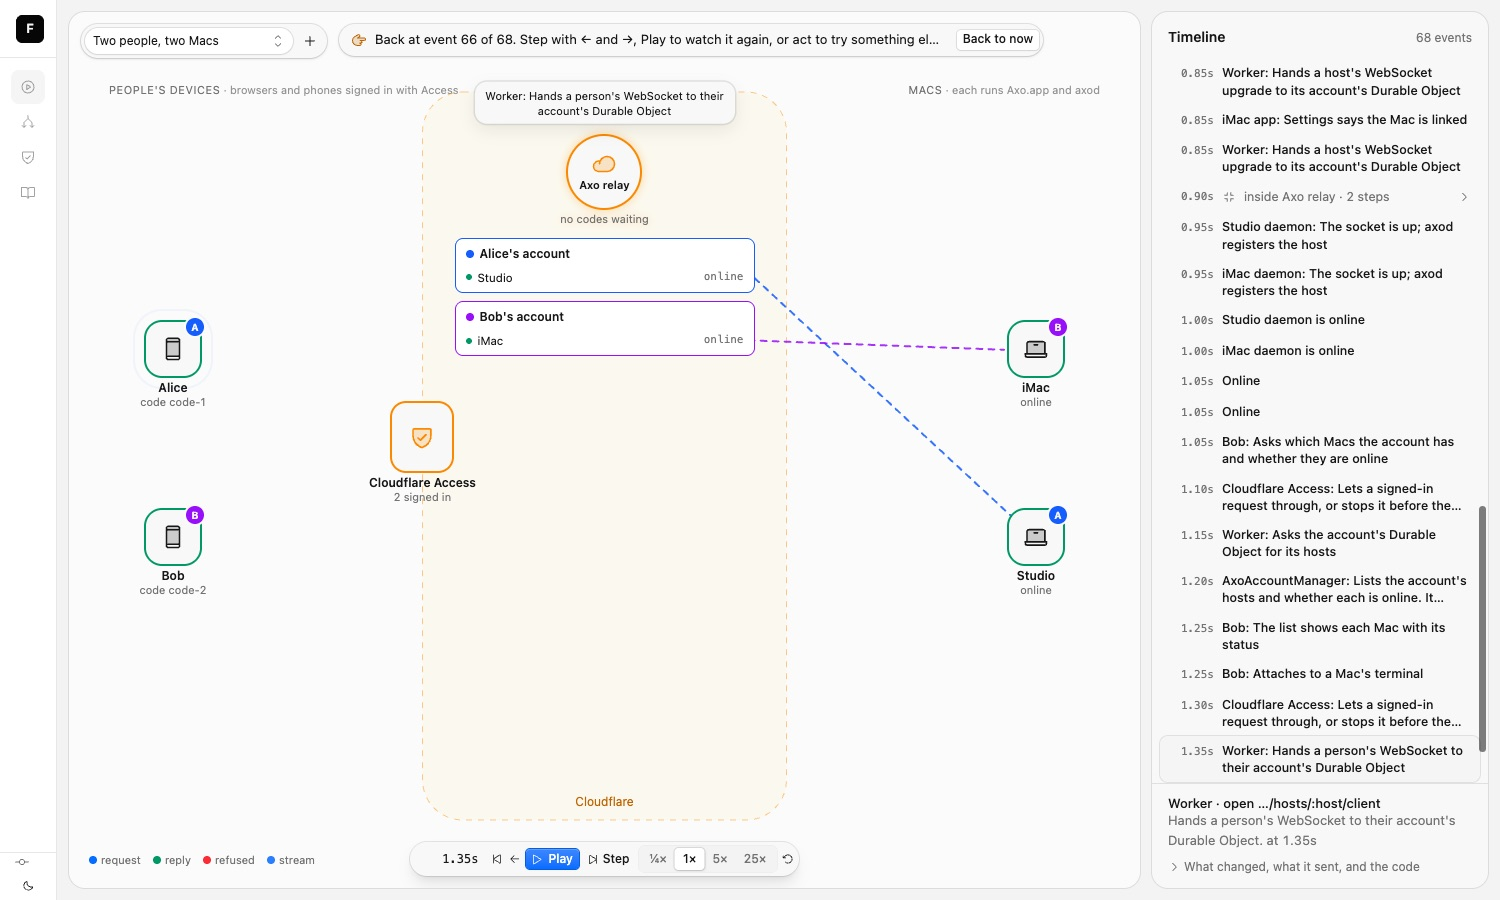
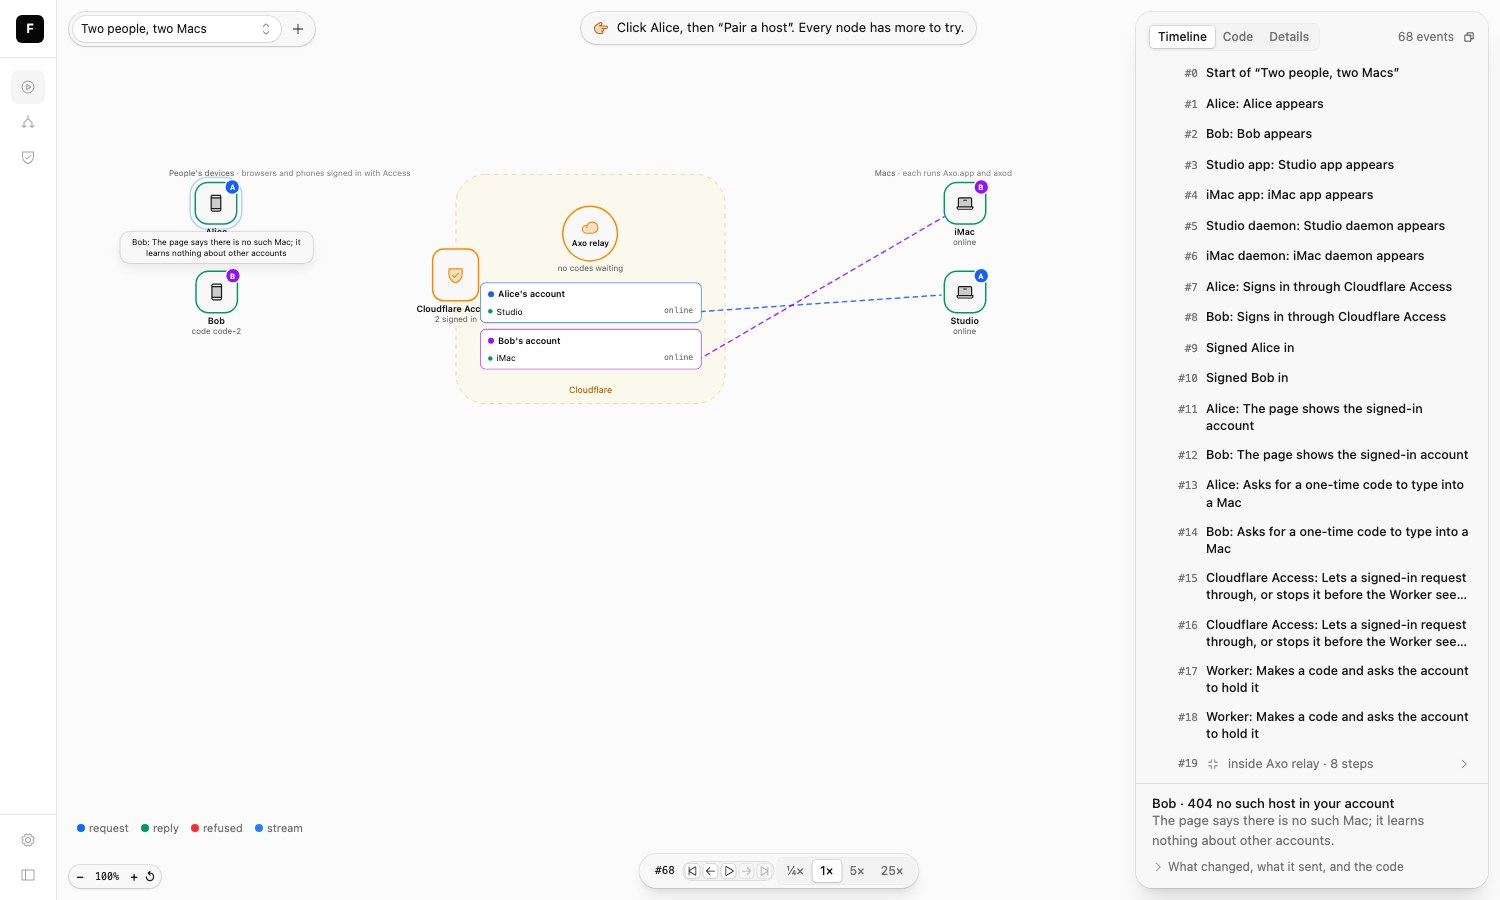
fix(view): fit the diagram beside the floating controls, not under them; the site shows the Code view and shareable sessions

diff --git a/src/view/Playground.tsx b/src/view/Playground.tsx
@@ -12,7 +12,7 @@ import { choices, dropsFor, labelled, pendingInOrder, type Drop, type Event, typ
 import { groupsOf, iconFor, TONES, toneColor } from "../play/index.ts";
 import { labelOf, messageName, ordinal } from "./format";
 import { ActionBar, actionsOf, InputsDialog, STACK_FROM, startAction, type Asking, type Choosing } from "./playground/Actions";
-import { bubbleText, fitOf, routineDelivery, sizesOf, Stage, TokenChip, useLayout, useView, type Bubble, type Dragging, type Flight, type Picking } from "./playground/Stage";
+import { bubbleText, fitOf, type Free, routineDelivery, sizesOf, Stage, TokenChip, useLayout, useView, type Bubble, type Dragging, type Flight, type Picking } from "./playground/Stage";
 import { nodeLook, sceneOf, type Scene } from "./scene";
 import { apply, current, nextHint, nextLabel, rollback, scenarioDump, type Op, type Session } from "./session";
 import { Timeline, type TimelineTab } from "./Timeline";
@@ -24,6 +24,22 @@ import { DEFAULT_ZOOM, FIT_SCALE_UNITS, POSITION_UNITS_PER_PIXEL, ZOOM_FACTOR_UN
 export interface Choice {
   items: { value: string; label: string }[];
   onPick: (value: string) => void;
+}
+
+/** Room the floating controls take, in pixels: the top bar, the playback bar, the side pane and its margins. */
+const TOP_BAR = 60;
+const PLAY_BAR = 64;
+const PANE_REM = 22;
+const PANE_MARGIN = 24;
+/** Below this much width left beside the pane, the pane is treated as covering the canvas anyway. */
+const MIN_FREE_WIDTH = 320;
+
+/** The canvas left uncovered by the floating controls; the Code tab's pane is half the window wide. */
+function freeArea(view: { w: number; h: number }, wide: boolean): Free {
+  const rem = parseFloat(getComputedStyle(document.documentElement).fontSize) || 16;
+  const pane = Math.max(PANE_REM * rem, wide ? innerWidth / 2 : 0) + PANE_MARGIN;
+  const right = view.w - pane >= MIN_FREE_WIDTH ? pane : 0;
+  return { x: 0, y: TOP_BAR, w: view.w - right, h: Math.max(0, view.h - TOP_BAR - PLAY_BAR) };
 }
 
 function sameCamera(a: CameraState, b: CameraState): boolean {
@@ -103,7 +119,11 @@ export function Playground({ session, setSession, scenarios, specs, initialSpeed
   const scene = sceneOf(spec, world, groups, toggled);
   const baseScene = sceneOf(spec, base, groups, toggled);
   const graph = useLayout(spec, world, scene, view, sizesOf(playground, scene));
-  const fit = fitOf(graph, view);
+  const free = freeArea(view, paneTab === "code");
+  const fit = fitOf(graph, free);
+  // Zooming and the camera's offset are about the middle of the free area, not of the canvas.
+  const cx = free.x + free.w / 2;
+  const cy = free.y + free.h / 2;
   const focusIndex = viewing ?? last;
   // Auto-fit untouched views; once navigated, keep the original scale across scene changes.
   const baseScale = camera.manual ? camera.fitScale === null ? fit.scale : camera.fitScale / FIT_SCALE_UNITS : fit.scale;
@@ -111,15 +131,15 @@ export function Playground({ session, setSession, scenarios, specs, initialSpeed
   const cameraZoom = (baseScale * zoom) / fit.scale;
   const stageFit = {
     scale: baseScale * zoom,
-    x: view.w / 2 + camera.x / POSITION_UNITS_PER_PIXEL + (fit.x - view.w / 2) * cameraZoom,
-    y: view.h / 2 + camera.y / POSITION_UNITS_PER_PIXEL + (fit.y - view.h / 2) * cameraZoom,
+    x: cx + camera.x / POSITION_UNITS_PER_PIXEL + (fit.x - cx) * cameraZoom,
+    y: cy + camera.y / POSITION_UNITS_PER_PIXEL + (fit.y - cy) * cameraZoom,
   };
-  const zoomBy = (factor: number, x = view.w / 2, y = view.h / 2) => {
+  const zoomBy = (factor: number, x = cx, y = cy) => {
     const next = scaleZoom(camera.zoom, factor);
     const ratio = next / camera.zoom;
     const cameraX = camera.x / POSITION_UNITS_PER_PIXEL;
     const cameraY = camera.y / POSITION_UNITS_PER_PIXEL;
-    setCamera({ zoom: next, fitScale: camera.fitScale ?? Math.round(fit.scale * FIT_SCALE_UNITS), manual: true, x: Math.round((x - view.w / 2 - (x - view.w / 2 - cameraX) * ratio) * POSITION_UNITS_PER_PIXEL), y: Math.round((y - view.h / 2 - (y - view.h / 2 - cameraY) * ratio) * POSITION_UNITS_PER_PIXEL) });
+    setCamera({ zoom: next, fitScale: camera.fitScale ?? Math.round(fit.scale * FIT_SCALE_UNITS), manual: true, x: Math.round((x - cx - (x - cx - cameraX) * ratio) * POSITION_UNITS_PER_PIXEL), y: Math.round((y - cy - (y - cy - cameraY) * ratio) * POSITION_UNITS_PER_PIXEL) });
   };
   const onPanStart = (e: ReactPointerEvent<HTMLDivElement>) => {
     const target = e.target as HTMLElement;

diff --git a/sites/feynman.leostera.dev/src/App.tsx b/sites/feynman.leostera.dev/src/App.tsx
@@ -3,7 +3,9 @@ import {
   ArrowRightIcon,
   CheckIcon,
   CircleHalfIcon,
+  CodeIcon,
   CopyIcon,
+  LinkIcon,
   PlayIcon,
   RobotIcon,
   ShieldCheckIcon,
@@ -33,6 +35,24 @@ const USE_CASES: { icon: Icon; title: string; text: string }[] = [
     icon: ShieldCheckIcon,
     title: "Checking a system as it changes",
     text: "When a change reshapes the architecture or behavior, update the model, compare scenario flows, and check the rules again: what must never happen, and what must eventually happen. Feynman searches within configured bounds and shows a counterexample when a rule fails.",
+  },
+];
+
+const PLAYGROUND_FEATURES: { icon: Icon; title: string; text: string }[] = [
+  {
+    icon: PlayIcon,
+    title: "Step through it",
+    text: "Add people and machines, act as they would, and watch each message travel. Play, step, rewind to any event, or deliver and drop messages by hand to try another ordering.",
+  },
+  {
+    icon: CodeIcon,
+    title: "See the code behind each step",
+    text: "The Code view walks the timeline event by event: what came in, what went out, and the code the step names. Open any function it reaches in your code to read it in place, highlighted.",
+  },
+  {
+    icon: LinkIcon,
+    title: "Share what you found",
+    text: "The URL carries the scenario, the timeline, and the view, so a link opens the same session. Copy the timeline to hand it to your agent and turn it into a scenario.",
   },
 ];
 
@@ -120,12 +140,16 @@ export function App() {
               <p className="mt-5 text-sm text-kumo-subtle">
                 The skill is included with the package for Pi. You can also give the linked skill file to another coding agent.
               </p>
+              <p className="mt-3 text-sm text-kumo-subtle">
+                Run <code className="rounded bg-kumo-recessed px-1 py-0.5 font-mono text-[12px]">bunx feynman dev</code> to open the playground on your
+                own specs. It reloads as the spec changes, and checks and code links fill in as they finish.
+              </p>
             </div>
             <CodeBlock snippet={prompt} label="A prompt to start with" />
           </div>
         </Section>
 
-        <Section id="playground" title="Explore the playground" lead="Open a working model. Add actors, move through events, rewind, or try a different sequence.">
+        <Section id="playground" title="Explore the playground" lead="Open a working model. Move through its events, read the code behind each one, and share exactly what you found.">
           {FEATURED_SIM && (
             <figure className="mb-8">
               <a href={simHref(FEATURED_SIM)} className="block overflow-hidden rounded-xl ring-1 ring-kumo-line shadow-lg transition hover:ring-kumo-brand">
@@ -140,6 +164,15 @@ export function App() {
               </figcaption>
             </figure>
           )}
+          <div className="mb-10 grid gap-4 md:grid-cols-3">
+            {PLAYGROUND_FEATURES.map(({ icon: Icon, title, text }) => (
+              <div key={title}>
+                <Icon size={20} className="text-kumo-subtle" />
+                <h3 className="mt-2 text-sm font-semibold">{title}</h3>
+                <p className="mt-1 text-sm text-kumo-subtle">{text}</p>
+              </div>
+            ))}
+          </div>
           <div className="grid gap-4 sm:grid-cols-2">
             {SIMS.filter(published).map((sim) => (
               <a key={sim.slug} href={simHref(sim)} className="group block">

diff --git a/src/view/playground/Stage.tsx b/src/view/playground/Stage.tsx
@@ -85,10 +85,19 @@ export function useLayout(spec: Spec, world: World, scene: Scene, view: View, si
 }
 
 /** The layout already fills the canvas; scale down only when it could not fit. */
-export function fitOf(graph: Layout | null, view: View): Fit {
-  if (!graph || !view.w) return { scale: 1, x: 0, y: 0 };
-  const scale = Math.min(1, view.w / graph.width, view.h / graph.height);
-  return { scale, x: (view.w - graph.width * scale) / 2, y: (view.h - graph.height * scale) / 2 };
+/** The part of the canvas that floating controls leave free: where the diagram is fitted. */
+export interface Free {
+  x: number;
+  y: number;
+  w: number;
+  h: number;
+}
+
+/** The diagram scaled down (never up) to fit the free area, and centred in it. */
+export function fitOf(graph: Layout | null, free: Free): Fit {
+  if (!graph || free.w <= 0 || free.h <= 0) return { scale: 1, x: 0, y: 0 };
+  const scale = Math.min(1, free.w / graph.width, free.h / graph.height);
+  return { scale, x: free.x + (free.w - graph.width * scale) / 2, y: free.y + (free.h - graph.height * scale) / 2 };
 }
 
 export interface StageProps {

diff --git a/sites/feynman.leostera.dev/scripts/llms.ts b/sites/feynman.leostera.dev/scripts/llms.ts
@@ -16,6 +16,11 @@ Install with \`bun add -d @leostera/feynman\` (Bun 1.3 or later). Specs import
 (scenario traces as text), \`feynman dev\` (the simulator), \`feynman build\` (one
 self-contained HTML file), \`feynman diff --base main\`.
 
+In the simulator, a session's URL (\`#/playground/<spec>/<scenario>\`) carries its scenario,
+timeline, and view, so a link reopens it; "Copy timeline" gives a JSON trace to turn into a
+scenario. The Code view lists each event's inputs and messages and the code its step names, with
+the functions that code reaches in the repository, each readable in place.
+
 Checker verdicts: ✗ a trace violates the rule; ✓ the rule holds in every state explored within
 configured bounds; ~ no violation was found before a search limit stopped exploration (not a
 proof); ? the explored states never reached a case where the rule could be judged.
